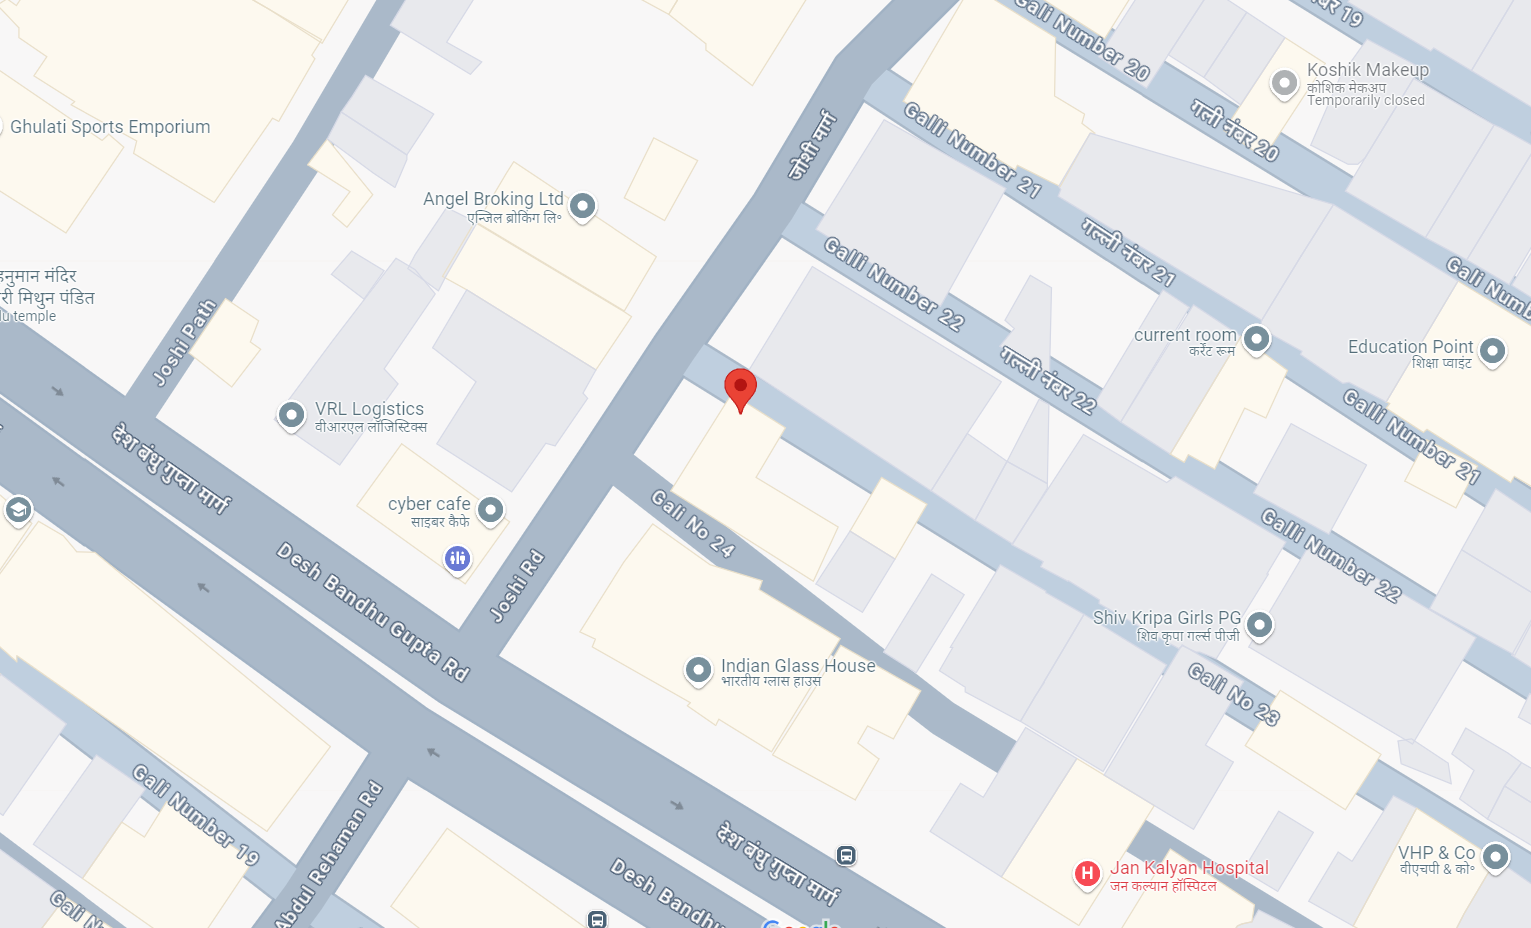
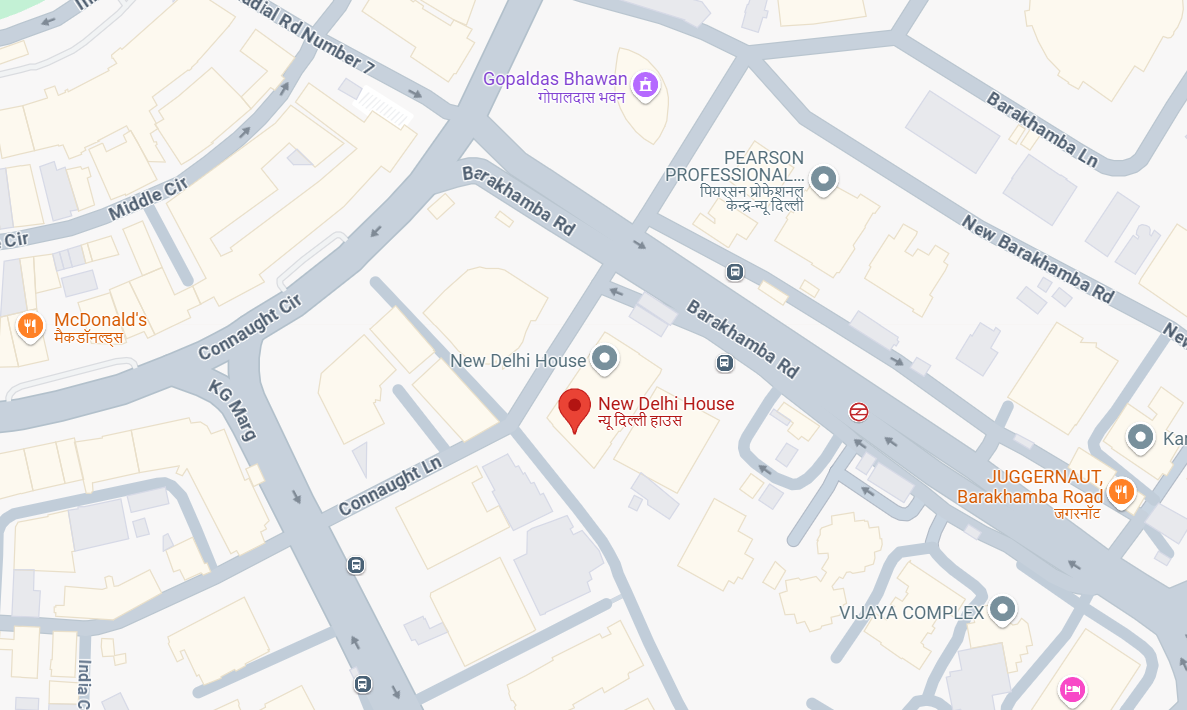
Update the map on contact page

diff --git a/src/contactPage.tsx b/src/contactPage.tsx
@@ -68,13 +68,17 @@ const ContactPage: React.FC = () => (
             </CardContent>
           </Card>
         
-          <Link to="https://www.google.com/maps/place/718,+Joshi+Rd,+Block+A,+Karol+Bagh,+New+Delhi,+Delhi,+110005/@28.6499802,77.1984259,19z/" className="block mb-8 no-underline">
+          <Link to="https://maps.app.goo.gl/Vhj5xatj66AqSUA68" className="block mb-8 no-underline">
             <Card>
               <CardHeader>
                 <CardTitle>Our Location</CardTitle>
               </CardHeader>
               <CardContent>
-                  <iframe src="https://www.google.com/maps/embed?pb=!1m18!1m12!1m3!1d3501.997134675735!2d77.22045507565282!3d28.629847975666248!2m3!1f0!2f0!3f0!3m2!1i1024!2i768!4f13.1!3m3!1m2!1s0x390cfd36abb11669%3A0xa4c2f624ef5006b0!2sNew%20Delhi%20House!5e0!3m2!1sen!2sie!4v1751573086073!5m2!1sen!2sie" width="600" height="450" style="border:0;" allowfullscreen="" loading="lazy" referrerpolicy="no-referrer-when-downgrade"></iframe>
+                  <img 
+                      src="/location.png" 
+                      alt="Map of ATG&Co location" 
+                      className="w-full h-64 object-cover rounded-lg"
+                  />
               </CardContent>
             </Card>
           </Link>
